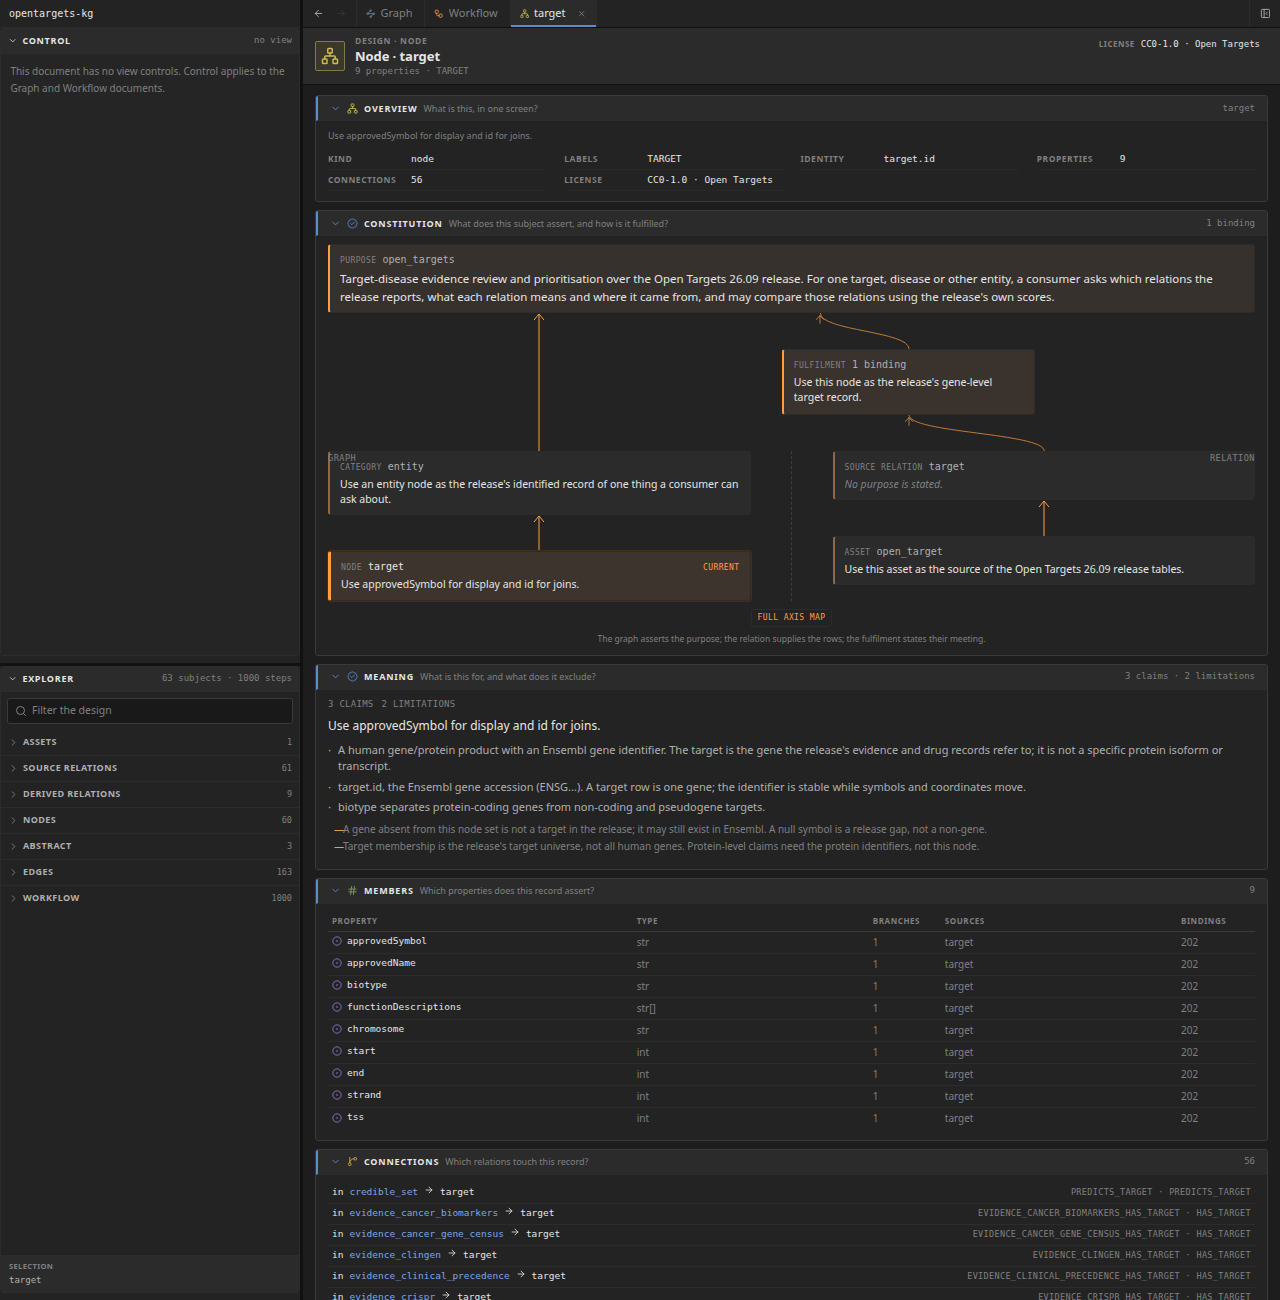
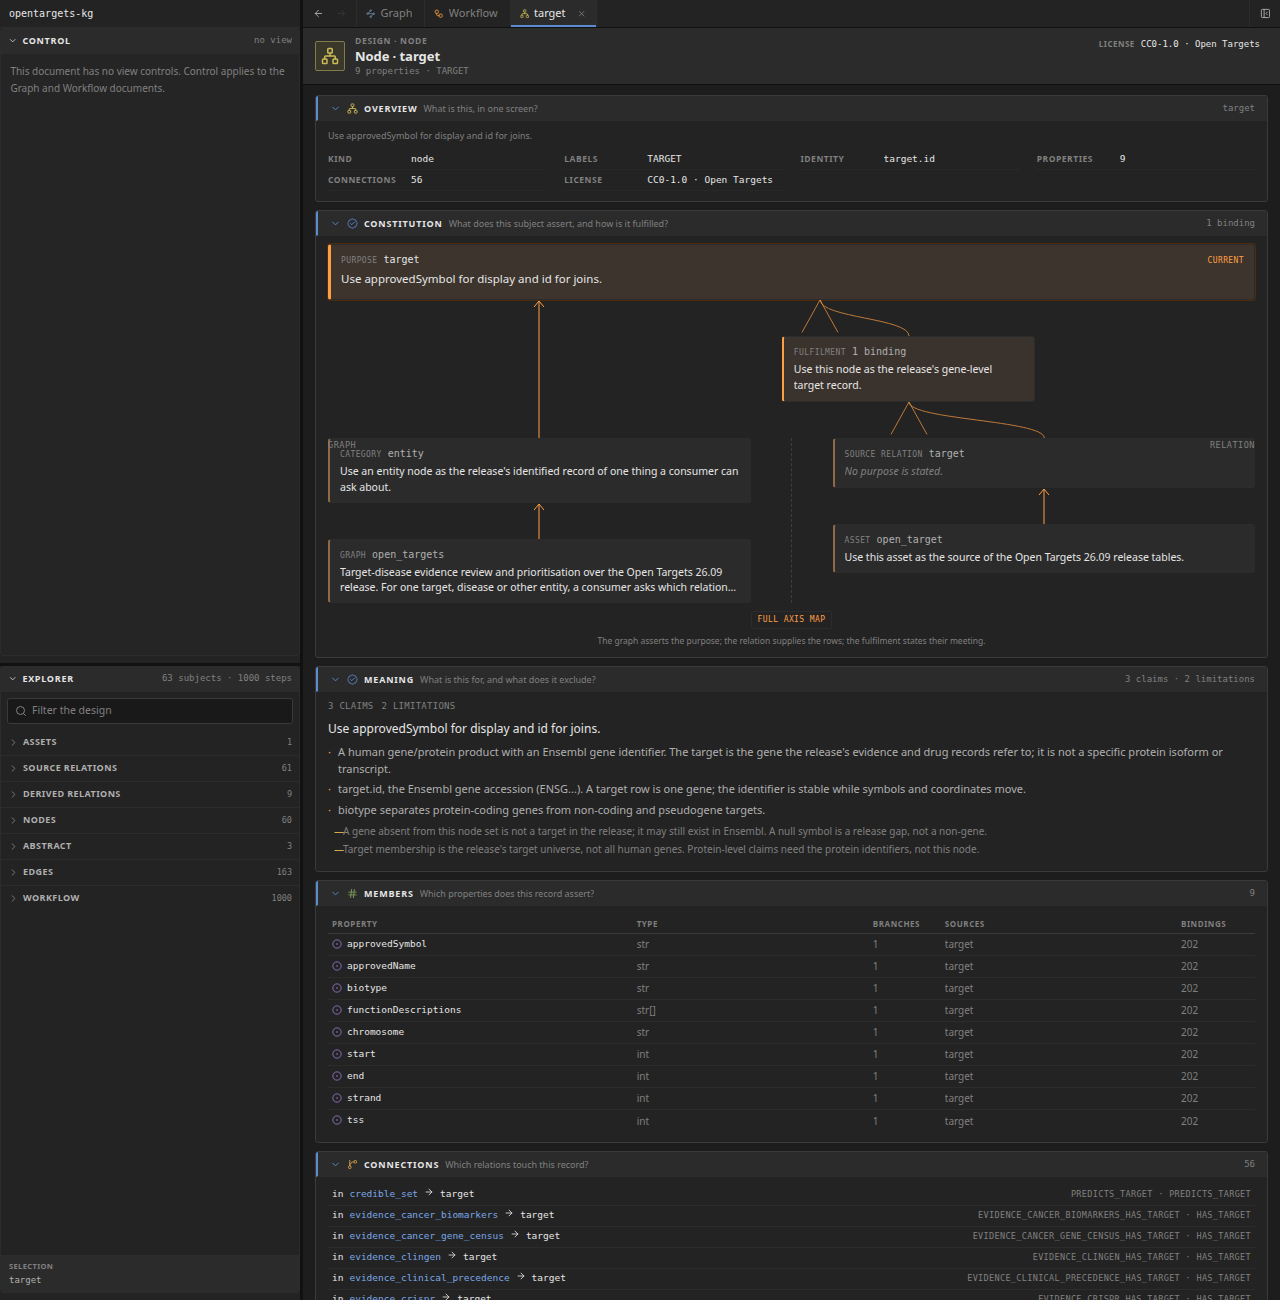
Lead the constitution with the subject purpose

diff --git a/viewer/shared/design/constitution.ts b/viewer/shared/design/constitution.ts
@@ -2,9 +2,10 @@
  * The constitution of one subject: its purpose, the graph axis that asserts it
  * and the relation axis that fulfils it.
  *
- * The purpose is the root. The graph branch holds the record-axis purposes
- * that narrow it; the relation branch holds the provenance that supplies it,
- * from the relation down to the asset. The fulfilment box sits on the right,
+ * The current subject's purpose is the root. The graph branch holds its
+ * ancestry below, from the immediate parent down to the graph purpose; the
+ * relation branch holds the provenance that supplies it, from the relation
+ * down to the asset. The fulfilment box sits on the right,
  * above the separator and inset above the relation axis. A level keeps its own
  * meaning, so the two branches show derivation and supply, never inherited
  * text.
@@ -25,6 +26,7 @@ import {
   attachedMeaning,
   componentMeaning,
   graphMeaning,
+  propertyMeaning,
   purposeLevels,
   type DesignMeaningValue,
   type PurposeLevel,
@@ -115,6 +117,53 @@ export function axisSubjectFor(
   }
 }
 
+function subjectMeaning(
+  index: ViewerIndex,
+  subject: ConstitutionSubjectLike,
+): DesignMeaningValue {
+  switch (subject.level) {
+    case "property": {
+      const kind = index.topologyNodesByName.has(subject.component)
+        ? "node"
+        : "edge";
+      return propertyMeaning(
+        index,
+        kind,
+        subject.component,
+        subject.property ?? "",
+      );
+    }
+    case "node":
+    case "edge":
+      return componentMeaning(index, subject.level, subject.component);
+    case "abstract":
+      return componentMeaning(index, "node", subject.component);
+    case "asset": {
+      const asset = index.assetsByName.get(subject.component);
+      return attachedMeaning(asset?.meaning ?? asset?.semantics);
+    }
+    case "relation": {
+      const relation = index.relationByName.get(subject.component);
+      return attachedMeaning(relation?.meaning ?? relation?.semantics);
+    }
+    case "projection": {
+      const projection = index.projectionByName.get(subject.component);
+      return attachedMeaning(projection?.meaning ?? projection?.semantics);
+    }
+    default:
+      return graphMeaning(index);
+  }
+}
+
+function graphPurposeNode(index: ViewerIndex): ConstitutionNode {
+  return {
+    kind: "graph",
+    name: index.graphDeclaration?.name ?? "graph",
+    label: "Graph",
+    meaning: graphMeaning(index),
+  };
+}
+
 function relationMeaning(index: ViewerIndex, name: string): DesignMeaningValue {
   const source = index.relationByName.get(name);
   if (source) {
@@ -159,7 +208,7 @@ function purposeNode(level: PurposeLevel): ConstitutionNode {
   return {
     kind: level.kind,
     name: level.name,
-    label: LABELS[level.kind],
+    label: level.kind === "graph" ? "Graph" : LABELS[level.kind],
     meaning: level.meaning,
     current: level.current,
     ...(open ? { open } : {}),
@@ -310,10 +359,11 @@ function bindingSummary(
 /**
  * Read the constitution for one subject.
  *
- * A record subject is rooted in the graph purpose and walks its record axis; a
- * relation or asset subject is rooted in its own purpose and lists the records
- * it fulfils. Both cases carry the relation tree and its fulfilment box, so
- * the two axes are read together rather than in separate cards.
+ * The root is the current subject's purpose. The graph branch lists its
+ * ancestry below, from the immediate parent down to the graph purpose; a
+ * relation or asset subject lists the records it fulfils instead. Both cases
+ * carry the relation tree and its fulfilment box, so the two axes are read
+ * together rather than in separate cards.
  */
 export function constitutionModel(
   index: ViewerIndex,
@@ -328,15 +378,20 @@ export function constitutionModel(
     subject.level === "property";
   const purpose: ConstitutionNode = {
     kind: "graph",
-    name: index.graphDeclaration?.name ?? "graph",
+    name:
+      subject.level === "property"
+        ? `${subject.component}.${subject.property ?? ""}`
+        : subject.component,
     label: LABELS.graph,
-    meaning: graphMeaning(index),
+    meaning: subjectMeaning(index, subject),
+    current: true,
   };
   const graph = recordSubject
     ? purposeLevels(index, subject)
-        .filter((level) => level.kind !== "graph")
+        .slice(0, -1)
+        .reverse()
         .map(purposeNode)
-    : recordLevels(index, subject, map);
+    : [...recordLevels(index, subject, map), graphPurposeNode(index)];
   const relation = relationLevels(index, subject, map);
   const binding = bindingSummary(index, map);
   return {

diff --git a/viewer/tests/constitution.test.ts b/viewer/tests/constitution.test.ts
@@ -28,18 +28,19 @@ describe("constitution", () => {
       level: "node",
       component: "defect",
     });
-    expect(model.purpose.meaning.purpose).toContain(
-      "Exercise the viewer data contract",
+    expect(model.purpose.name).toBe("defect");
+    expect(model.purpose.current).toBe(true);
+    expect(model.purpose.meaning.claims[0]?.text).toContain(
+      "A defect is observed",
     );
     expect(model.graph.map((level) => level.label)).toEqual([
       "Category",
-      "Node",
+      "Graph",
     ]);
     expect(model.graph.map((level) => level.name)).toEqual([
       "documented",
-      "defect",
+      "fixture_graph",
     ]);
-    expect(model.graph[1].current).toBe(true);
     expect(model.relation.map((level) => level.label)).toEqual([
       "Source relation",
       "Asset",
@@ -62,15 +63,13 @@ describe("constitution", () => {
       component: "defect",
       property: "title",
     });
+    expect(model.purpose.name).toBe("defect.title");
     expect(model.graph.map((level) => level.kind)).toEqual([
-      "abstract",
       "node",
-      "property",
+      "abstract",
+      "graph",
     ]);
-    expect(model.graph.at(-1)?.current).toBe(true);
-    expect(model.graph.at(-1)?.meaning.claims[0]?.text).toContain(
-      "display name",
-    );
+    expect(model.purpose.meaning.claims[0]?.text).toContain("display name");
     expect(model.relation.map((level) => level.name)).toEqual([
       "surveys",
       "estate",
@@ -82,11 +81,15 @@ describe("constitution", () => {
       level: "relation",
       component: "surveys",
     });
-    expect(model.purpose.name).toBe("fixture_graph");
-    expect(model.purpose.meaning.purpose).toContain(
-      "Exercise the viewer data contract",
+    expect(model.purpose.name).toBe("surveys");
+    expect(model.purpose.current).toBe(true);
+    expect(model.purpose.meaning.claims[0]?.text).toContain(
+      "estate survey table",
     );
-    expect(model.graph.map((level) => level.name)).toEqual(["defect"]);
+    expect(model.graph.map((level) => level.name)).toEqual([
+      "defect",
+      "fixture_graph",
+    ]);
     expect(model.relation.map((level) => level.kind)).toEqual([
       "relation",
       "asset",

diff --git a/viewer/shared/design/Constitution.tsx b/viewer/shared/design/Constitution.tsx
@@ -2,7 +2,6 @@
 
 import { Fragment, useEffect, useId, useRef, useState } from "react";
 import { createPortal } from "react-dom";
-import { ArrowUp } from "lucide-react";
 
 import { cx } from "@/shared/ui/theme";
 import { DesignMeaning } from "./DesignMeaning";
@@ -148,12 +147,16 @@ function CurvedArrow({ from, to }: { from: number; to: number }) {
       <svg viewBox="0 0 100 36" preserveAspectRatio="none">
         <path d={`M ${from} 36 C ${from} 18, ${to} 18, ${to} 0`} />
       </svg>
-      <span
+      <svg
         className={styles.constitutionCurveHead}
         style={{ left: `${to}%` }}
+        viewBox="0 0 14 10"
+        width="14"
+        height="10"
+        aria-hidden
       >
-        <ArrowUp size={13} strokeWidth={1.8} />
-      </span>
+        <path d="M2 9 L7 0 L12 9" />
+      </svg>
     </div>
   );
 }

diff --git a/viewer/shared/design/design.module.css b/viewer/shared/design/design.module.css
@@ -477,9 +477,15 @@ button.constitutionName:focus-visible {
 .constitutionCurveHead {
   position: absolute;
   top: 0;
-  display: flex;
+  display: block;
   color: var(--color-selection);
   transform: translate(-50%, 0);
+}
+
+.constitutionCurveHead path {
+  fill: none;
+  stroke: currentColor;
+  stroke-width: 1;
 }
 
 .constitutionMobileBranchLabel {

diff --git a/viewer/DETAIL_CONTENT.md b/viewer/DETAIL_CONTENT.md
@@ -16,7 +16,7 @@ includes by their immediate importance to a reader; it never renames one. A
 | Order | Section | Question it answers | Content |
 | --- | --- | --- | --- |
 | 1 | **Overview** | What is this, in one screen? | One fact grid: kind, labels, identity, owner or endpoints, counts and licence. |
-| 2 | **Constitution** | What does this subject assert, and how is it fulfilled? | One wide purpose at the top; the Fulfilment box on the right side, slightly inset above the relation axis; the Graph chain on the left and the Relation chain on the right. The separator starts below Fulfilment, so the axes lie below it and Fulfilment above it. The arrow from Fulfilment to the purpose and the arrow from the relation to Fulfilment both curve left. Arrows point up to the level each box is accountable to; the relation's provenance branches sit below it. Each box clamps its purpose to two lines; hovering or focusing it reveals the full meaning, and a box label opens its document. The Fulfilment box states the binding count; identity fields and coverage appear when the box has room and always in the full axis map. A grouped branch shows the first item and `+N`; one control expands the full axis map. |
+| 2 | **Constitution** | What does this subject assert, and how is it fulfilled? | The current subject's purpose is the wide root at the top; the Fulfilment box is on the right side, slightly inset above the relation axis; the Graph chain on the left and the Relation chain on the right. The separator starts below Fulfilment, so the axes lie below it and Fulfilment above it. The arrow from Fulfilment to the purpose and the arrow from the relation to Fulfilment both curve left. Arrows point up to the level each box is accountable to; the relation's provenance branches sit below it. Each box clamps its purpose to two lines; hovering or focusing it reveals the full meaning, and a box label opens its document. The Fulfilment box states the binding count; identity fields and coverage appear when the box has room and always in the full axis map. A grouped branch shows the first item and `+N`; one control expands the full axis map. |
 | 3 | **Meaning** | What is this for, and what does it exclude? | The full meaning of the current subject: purpose, the limitations it owns, then contextless claims; compact counts in the header. |
 | 4 | **Sources** | Where does this value come from? | Assets, source relations and derived relations, as navigable references with counts. |
 | 5 | **Build steps** | How is this built? | The narrowed workflow graph of the steps that produce the subject. |
@@ -69,17 +69,15 @@ the derivation. The section titles state the question.
 
 The Constitution card reads one subject as two axes under one purpose. It is a
 tree, not a Cartesian plot: the purpose is the root, the graph and relation
-branches descend from it, and each box points up to the level it is accountable
-to.
+branches descend from it, and each box points up to the purpose it supports.
 
-- **Purpose** is the wide root: the graph purpose. A record subject walks its
-  record axis below it; a relation or asset subject lists the records it
-  fulfils. A relation's own purpose stays on the relation box and is not
-  promoted into the root, because a relation purpose is a peer of the graph
-  purpose, not a narrowing of it.
-- **Graph** is the record axis: category → component → property, ordered from
-  the broadest level to the current subject. Each box states its own purpose;
-  the current box is tinted and marked.
+- **Purpose** is the wide root: the current subject's purpose. A record subject
+  lists its ancestry below it; a relation or asset subject lists the records it
+  fulfils. The graph purpose sits at the bottom of the Graph branch, not at the
+  top, so the current item leads the reading.
+- **Graph** is the record axis, read from the current subject's immediate
+  parent down to the graph purpose: for a property, node → category → graph.
+  Each box states its own purpose; the root purpose is marked current.
 - **Relation** is the relation axis. The relation sits below the Fulfilment
   box; the relation's provenance branches sit under it. A derived relation
   splits into its scanned source relation and its asset; a source relation

diff --git a/viewer/HIERARCHY.md b/viewer/HIERARCHY.md
@@ -57,7 +57,7 @@ position.
 | **Step** | one workflow step's instruction, payload, openings, connections and blueprint bindings on the same detail surface as node and subject documents; opened from the workflow section of Explorer |
 | **Source relation** | a source relation's identity, contract, owning asset, columns, indented expression outline from the relation back through its fields to the asset, its Constitution (purpose root, bound records, fulfilment box above the relation axis and inset from it, relation and asset branches) and its full meaning in the Meaning band; the effective licence is in the banner |
 | **Derived relation** | a derived relation's identity, contract, columns, row source, indented expression outline from each column back through its operators and row source to the asset, its Constitution (purpose root, bound records, fulfilment box above the relation axis and inset from it, relation and asset branches) and its full meaning in the Meaning band; the effective licence is in the banner |
-| **Subject** (node, edge, property, asset, abstract) | provenance assets, source relations and derived relations first for node, edge and property; asset and relation references are navigable to their own documents; the effective licence is in the banner; a pannable, zoomable narrowed workflow graph and an indented expression outline of the actual field and operator chain from the current item back to its provenance assets follows, then the Constitution tree (wide purpose root, graph branch from category to component to property, fulfilment box above the separator and inset above the relation axis, separator between the axes below it, relation branch with its provenance branches below, curved arrows into fulfilment and optional full axis map; hovering a box shows its full meaning, and a label opens that level), the current subject's full Meaning, properties and, for a property, provenance lanes and type/presence |
+| **Subject** (node, edge, property, asset, abstract) | provenance assets, source relations and derived relations first for node, edge and property; asset and relation references are navigable to their own documents; the effective licence is in the banner; a pannable, zoomable narrowed workflow graph and an indented expression outline of the actual field and operator chain from the current item back to its provenance assets follows, then the Constitution tree (current subject's purpose root, graph branch from its immediate parent down to the graph purpose, fulfilment box above the separator and inset above the relation axis, separator between the axes below it, relation branch with its provenance branches below, curved arrows into fulfilment and optional full axis map; hovering a box shows its full meaning, and a label opens that level), the current subject's full Meaning, properties and, for a property, provenance lanes and type/presence |
 
 A node or property click in the canvas only changes transient inspection.
 Single-clicking an Explorer row opens or reuses one preview tab; double-clicking

diff --git a/viewer/DESIGN_LANGUAGE.md b/viewer/DESIGN_LANGUAGE.md
@@ -80,17 +80,17 @@ A kind includes or omits a section; it never renames one for itself.
 
 - **Overview** is one fact grid: kind, labels, identity, owner or endpoints,
   counts and licence.
-- **Constitution** is the two-axis tree. The wide purpose is the root; the
-  Graph branch is the record axis, ordered from category to component to
-  property; the Relation branch is the relation axis. The Fulfilment box sits
+- **Constitution** is the two-axis tree. The current subject's purpose is the
+  wide root; the Graph branch is the record axis, ordered from the subject's
+  immediate parent down to the graph purpose; the Relation branch is the
+  relation axis. The Fulfilment box sits
   on the right side above the separator; the separator starts below it so the
   axes lie below the separator. Fulfilment is slightly inset above the relation
   axis; its arrow to the purpose and the relation's arrow to it both bend left.
   Every stacked item uses the same vertical gap, including the gap below the
   Fulfilment box and the gap to the axes. The relation axis carries its
   provenance branches below its relation. Each box states only
-  its own purpose and clamps; arrows point up to the level it is accountable
-  to. Hovering or focusing a box reveals its full meaning in a
+  its own purpose and clamps; arrows point up to the purpose it supports. Hovering or focusing a box reveals its full meaning in a
   portal card; a box label opens that level's document. A grouped branch shows
   the first item and `+N`; **Full axis map** expands the same data into the
   three-column records, fulfilment and relations view.

diff --git a/AGENTS.md b/AGENTS.md
@@ -155,8 +155,8 @@ missing, not the code.
   question; every further layer is revealed by a named control, and raw JSON is
   not a default surface.
 - A subject that carries purpose, fulfilment and provenance is one constitution:
-  purpose at the root, fulfilment above the separator and inset above the
-  relation axis, and the graph and relation axes below the separator. The axes
+  the subject's purpose at the root, fulfilment above the separator and inset
+  above the relation axis, and the graph and relation axes below the separator. The axes
   are parallel lanes, not a Cartesian plot; fulfilment is neither axis.
 - A repeated item renders its units compactly. A heading is structural, not per
   unit: a table cell or list row does not repeat the section chrome.
